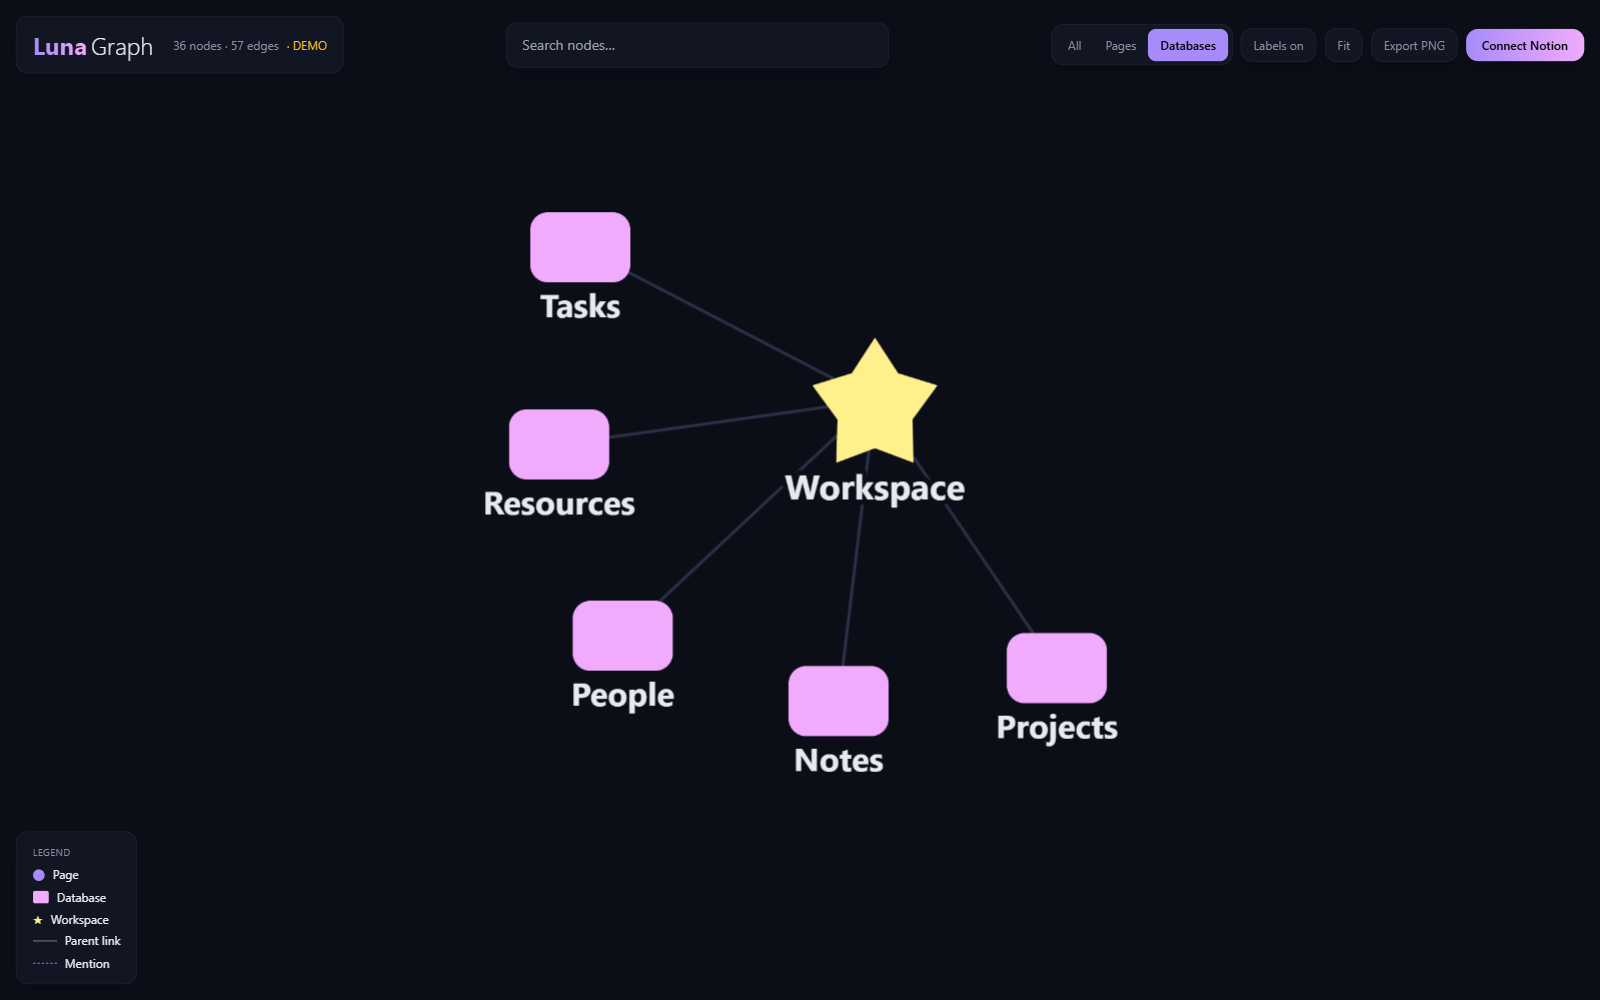
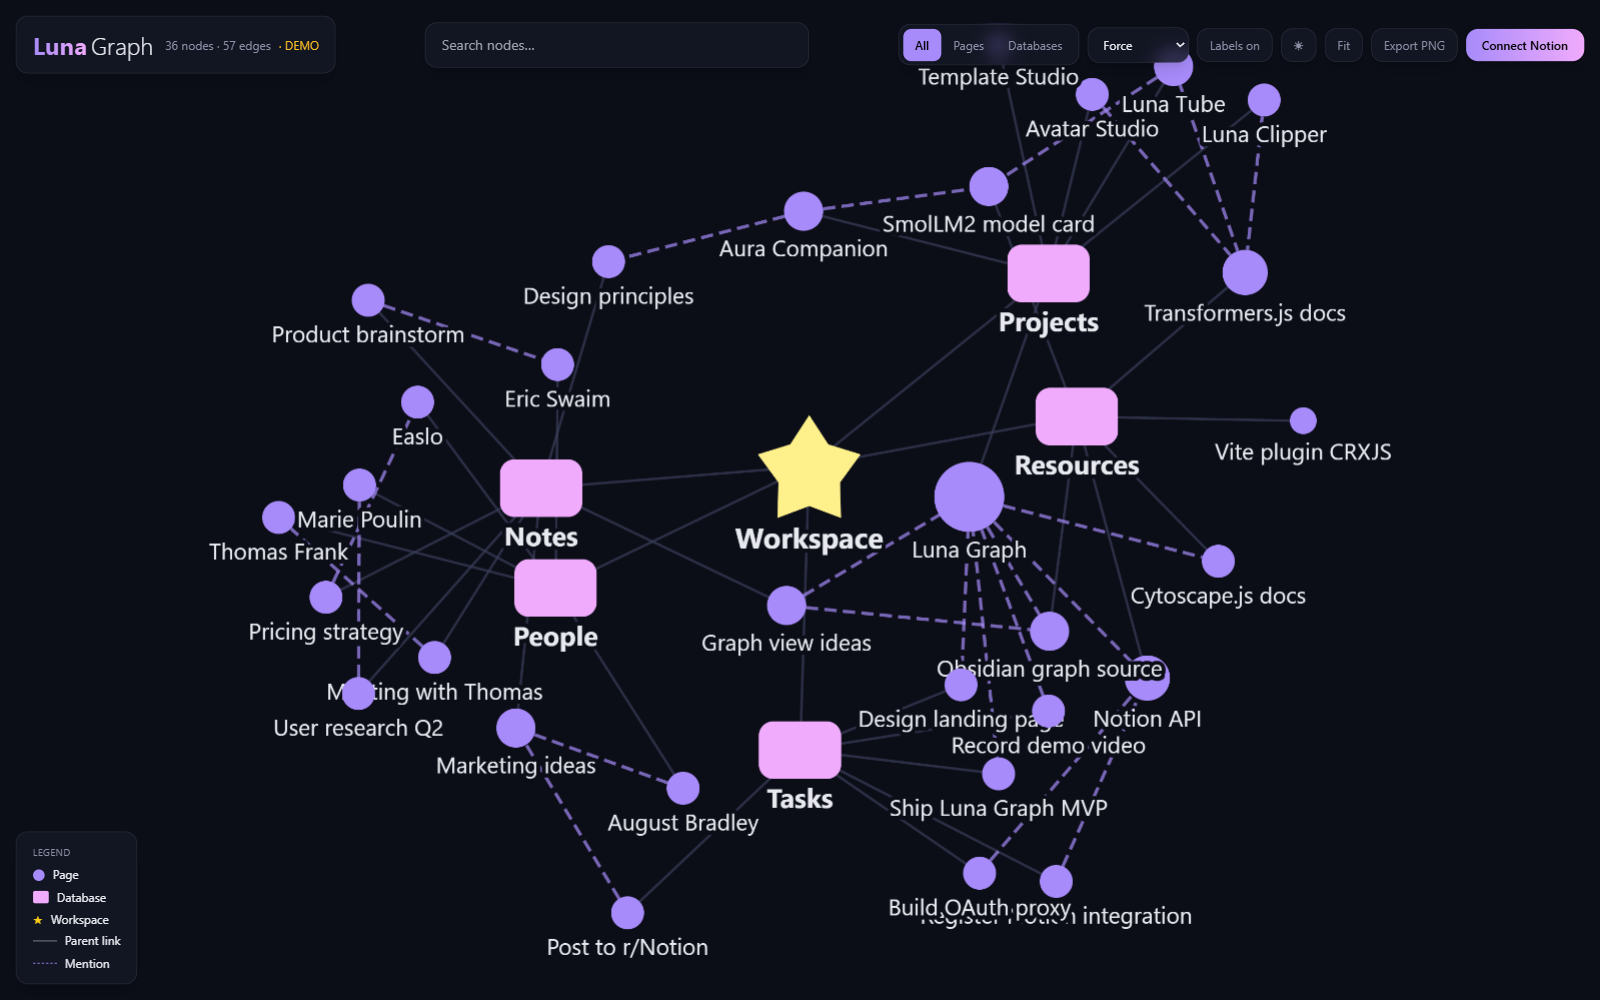
Emphasize /usr/bin/bash API fees throughout + better graph screenshot

diff --git a/index.html b/index.html
@@ -52,6 +52,11 @@
     </style>
   </head>
   <body>
+    <!-- $0 API fees banner -->
+    <div class="gradient text-white text-center py-2 text-sm font-bold">
+      ✓ $0 API FEES FOREVER · ✓ NO SUBSCRIPTION · ✓ LOCAL AI · ✓ YOUR DATA STAYS YOURS
+    </div>
+
     <!-- Nav -->
     <nav class="max-w-6xl mx-auto px-6 py-6 flex justify-between items-center">
       <div class="flex items-center gap-3">
@@ -200,7 +205,8 @@
           <div class="font-bold text-lg">Starter</div>
           <div class="text-luna-mute text-sm mt-1">Try the essentials</div>
           <div class="my-4"><span class="text-4xl font-extrabold text-luna-pink">$39</span> <span class="text-luna-mute line-through ml-1">$79</span> <span class="block text-xs text-luna-pink font-bold mt-1">🌙 Founding Member · 50% OFF</span></div>
-          <div class="text-xs text-luna-mute mb-3"><strong class="text-white">5 flagship plugins · 1 WordPress site</strong></div>
+          <div class="text-xs text-luna-mute mb-3"><strong class="text-white">5 flagship plugins · 1 site</strong></div>
+          <div class="text-xs text-luna-green font-bold mb-2">✓ $0 API fees forever</div>
           <ul class="text-xs space-y-2 mb-6 text-luna-mute flex-grow">
             <li>✓ <strong class="text-white">Luna Alt Text</strong> — Auto-fill alt text on every image</li>
             <li>✓ <strong class="text-white">Luna Meta Description</strong> — SEO meta for every post</li>
@@ -219,7 +225,8 @@
           <div class="font-bold text-lg">Pro</div>
           <div class="text-luna-mute text-sm mt-1">Power users & bloggers</div>
           <div class="my-4"><span class="text-4xl font-extrabold text-luna-pink">$99</span> <span class="text-luna-mute line-through ml-1">$199</span> <span class="block text-xs text-luna-pink font-bold mt-1">🌙 Founding Member · 50% OFF</span></div>
-          <div class="text-xs text-luna-mute mb-3"><strong class="text-white">20 plugins · 3 WordPress sites</strong></div>
+          <div class="text-xs text-luna-mute mb-3"><strong class="text-white">20 plugins · 3 sites</strong></div>
+          <div class="text-xs text-luna-green font-bold mb-2">✓ $0 API fees forever</div>
           <ul class="text-xs space-y-1 mb-6 text-luna-mute flex-grow max-h-96 overflow-y-auto pr-2">
             <li class="text-luna-pink font-bold pt-1">SEO (8)</li>
             <li>✓ Luna SEO Links — Internal link suggestions</li>
@@ -246,6 +253,7 @@
           <div class="text-luna-mute text-sm mt-1">Every plugin, forever</div>
           <div class="my-4"><span class="text-4xl font-extrabold text-luna-pink">$399</span> <span class="text-luna-mute line-through ml-1">$799</span> <span class="block text-xs text-luna-pink font-bold mt-1">🌙 Founding Member · 50% OFF</span></div>
           <div class="text-xs text-luna-mute mb-3"><strong class="text-white">All 73+ plugins · 5 sites</strong></div>
+          <div class="text-xs text-luna-green font-bold mb-2">✓ $0 API fees · forever</div>
           <ul class="text-xs space-y-1 mb-6 text-luna-mute flex-grow max-h-96 overflow-y-auto pr-2">
             <li class="text-luna-pink font-bold pt-1">SEO & Schema (11)</li>
             <li>Links · Meta Description · Meta Title · Headlines · Summarizer · Rewriter · SERP Preview · Slug · FAQ Pro · HowTo Block · SERP + 3 Schema generators</li>
@@ -271,6 +279,7 @@
           <div class="text-luna-mute text-sm mt-1">Unlimited client sites</div>
           <div class="my-4"><span class="text-4xl font-extrabold text-luna-pink">$749</span> <span class="text-luna-mute line-through ml-1">$1499</span> <span class="block text-xs text-luna-pink font-bold mt-1">🌙 Founding Member · 50% OFF</span></div>
           <div class="text-xs text-luna-mute mb-3"><strong class="text-white">All 73+ plugins · Unlimited sites</strong></div>
+          <div class="text-xs text-luna-green font-bold mb-2">✓ $0 API fees · unlimited clients</div>
           <ul class="text-xs space-y-2 mb-6 text-luna-mute flex-grow">
             <li>✓ <strong class="text-white">Everything in Lifetime</strong></li>
             <li>✓ All 73+ plugins across 5 pipelines</li>
@@ -348,7 +357,7 @@
         <div class="card p-4">
           <div class="font-bold text-luna-pink mb-2">🌙 Luna Notion Graph — $1</div>
           <div class="text-xs text-luna-mute mb-3">Visualize relationships between your Notion pages, databases, and links.</div>
-          <img src="screenshots/luna-graph.png" alt="Luna Graph visualization" class="rounded w-full" loading="lazy" />
+          <img src="screenshots/luna-graph.png" alt="Luna Notion Graph — full visualization" class="rounded w-full" loading="lazy" />
         </div>
         <div class="card p-4">
           <div class="font-bold text-luna-pink mb-2">🔍 Luna Graph — AI Search</div>
@@ -553,8 +562,12 @@
 
     <!-- Final CTA -->
     <section class="max-w-4xl mx-auto px-6 py-20 text-center">
+      <div class="inline-block px-6 py-2 rounded-full bg-luna-pink/20 border border-luna-pink/50 text-luna-pink font-bold text-sm mb-8">
+        ✓ $0 API FEES FOREVER · ✓ NO OPENAI KEY · ✓ NO MONTHLY BILL
+      </div>
       <h2 class="text-4xl md:text-5xl font-extrabold mb-6">Stop paying for AI you don't own.</h2>
-      <p class="text-xl text-luna-mute mb-10">72 plugins. Local AI. Pay once. Own it forever.</p>
+      <p class="text-xl text-luna-mute mb-6">73 plugins. Local AI. Pay once. Own it forever.</p>
+      <div class="text-lg text-luna-green font-bold mb-10">Every tier = $0 in ongoing AI costs. Ever.</div>
       <a href="#pricing" class="inline-block gradient text-white font-bold px-10 py-5 rounded-xl text-xl hover:opacity-90">See Pricing</a>
     </section>
 
